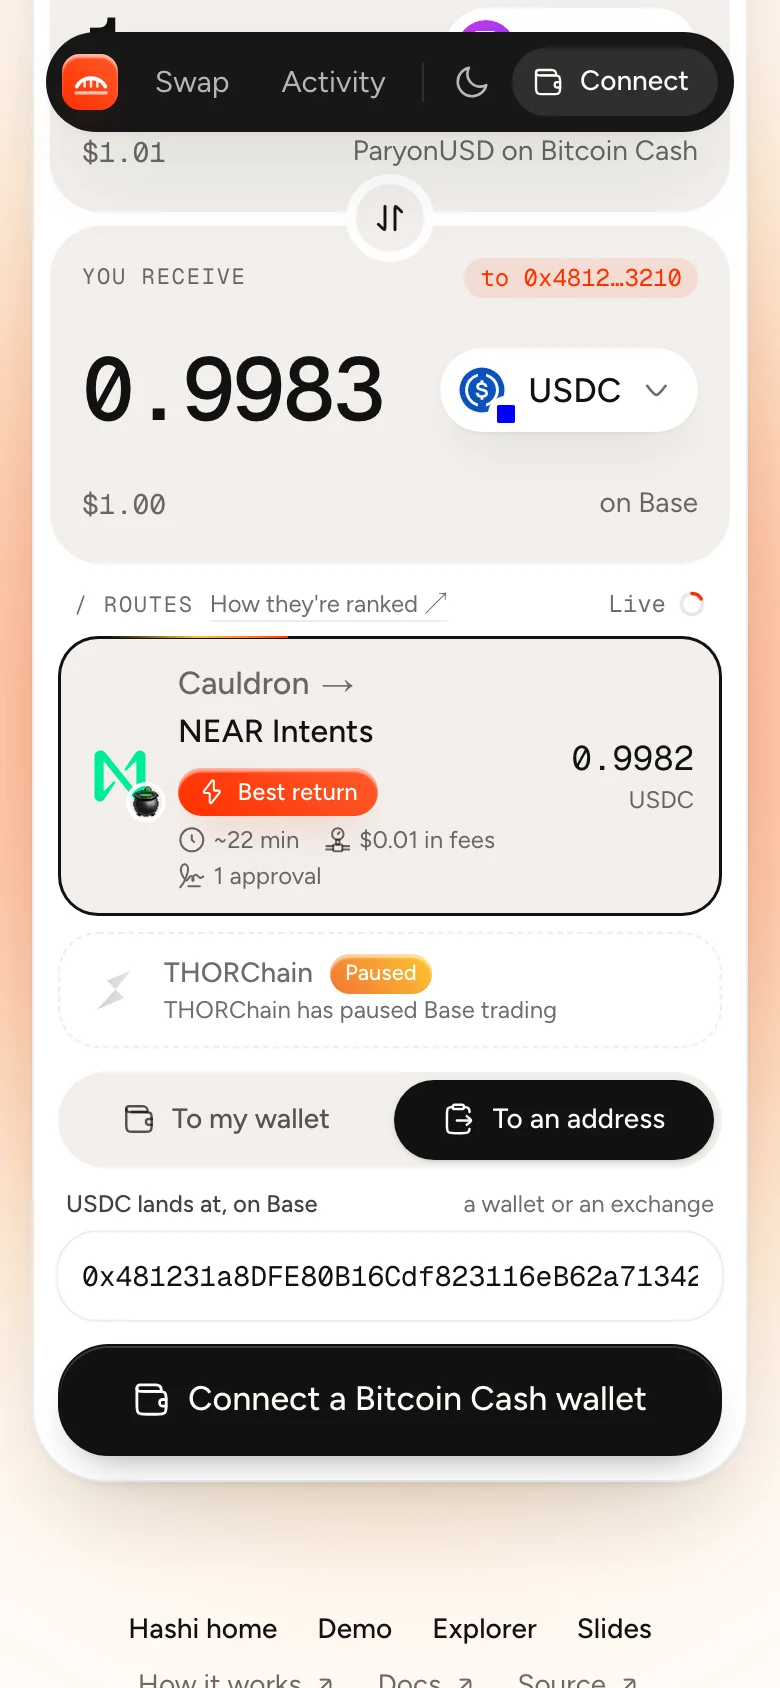
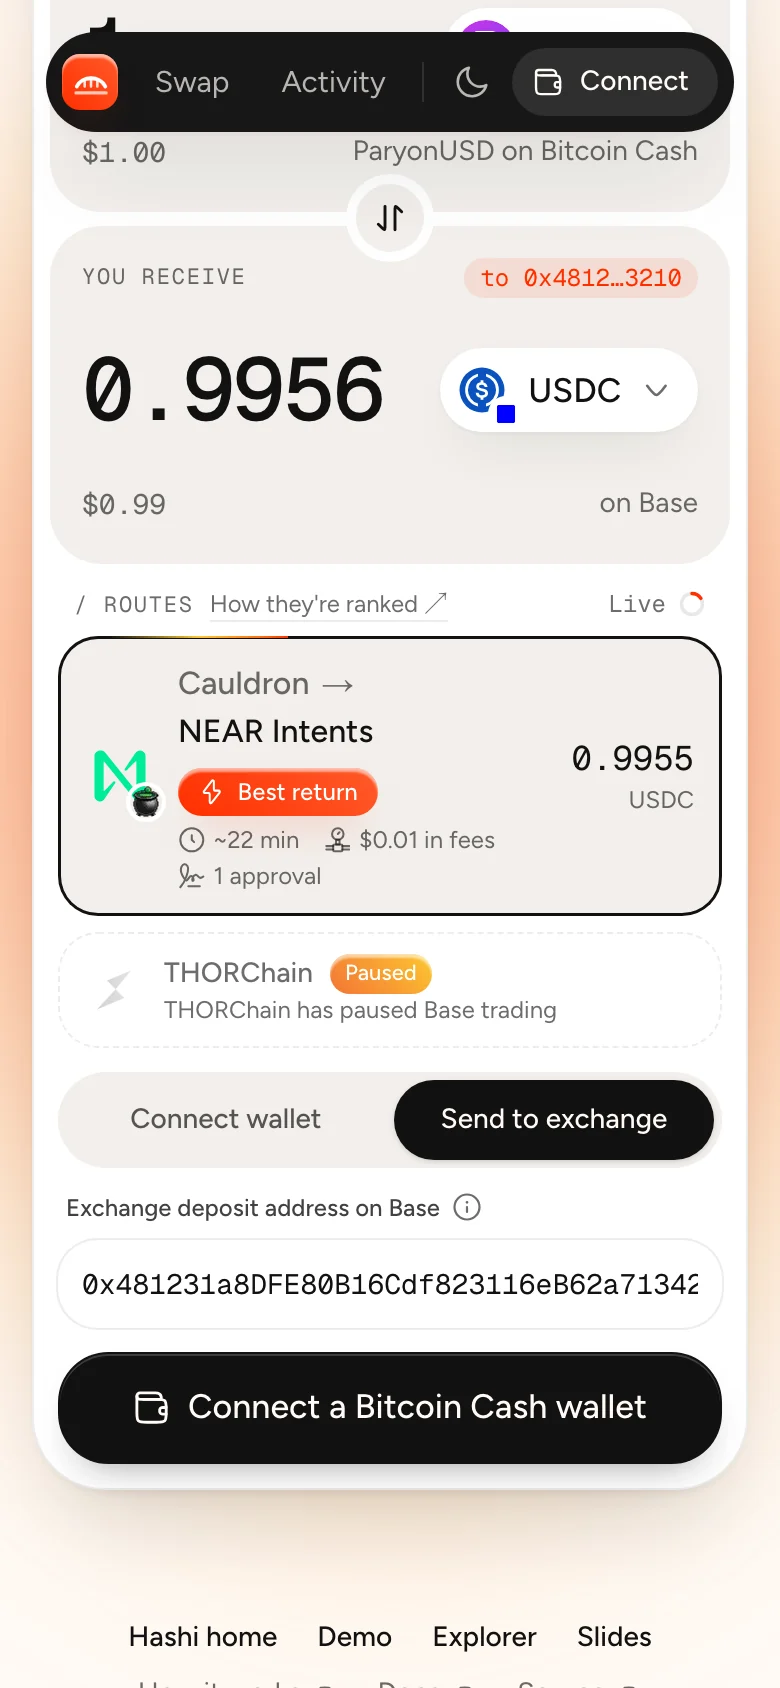
Docs: the page is 'Send from an exchange', in the card's own words (Connect wallet | Send from exchange, Connect wallet | Send to exchange, your wallet for refunds, the exchange deposit address), with fresh captures from hashi.cash

diff --git a/README.md b/README.md
@@ -190,7 +190,7 @@ Also checked:
 
 - **Swaps that stay on Bitcoin Cash**: PUSD ⇄ MUSD ⇄ BCH on Cauldron, one approval, about 15 seconds ([guide](https://docs.hashi.cash/docs/guide/on-bitcoin-cash)).
 - **Tracker and Activity**: every swap step by step across both chains, with explorer links, saved in your browser. While a bridge works, a live panel counts Bitcoin Cash blocks and shows the bridge's own countdown. A closed tab resumes where it stopped ([guide](https://docs.hashi.cash/docs/guide/tracking)).
-- **Send it yourself**: pay from an exchange or any wallet, no connection. Hashi shows NEAR Intents' deposit address, the amount and a payment QR that fills in the coin, network and amount, then watches for the deposit. Coming out, the dollars can land at any address, an exchange's included ([guide](https://docs.hashi.cash/docs/guide/send-it-yourself)).
+- **Send from an exchange**: pay from an exchange or any wallet, no connection. Hashi shows NEAR Intents' deposit address, the amount and a payment QR that fills in the coin, network and amount, then watches for the deposit. Coming out, the dollars can land at any address, an exchange's included ([guide](https://docs.hashi.cash/docs/guide/send-it-yourself)).
 - **Gasless USDC on Base**: sign an authorisation and Hashi's relayer pays the gas ([guide](https://docs.hashi.cash/docs/guide/gasless)).
 - **Services checked live**: NEAR Intents, THORChain's pauses per chain, the Cauldron Router and the Bitcoin Cash network, in the swap card's status ([guide](https://docs.hashi.cash/docs/guide/swap-screen)).
 - **Settings**: slippage, and a different recipient with guards against token contracts and the wrong chain ([guide](https://docs.hashi.cash/docs/guide/settings)).
